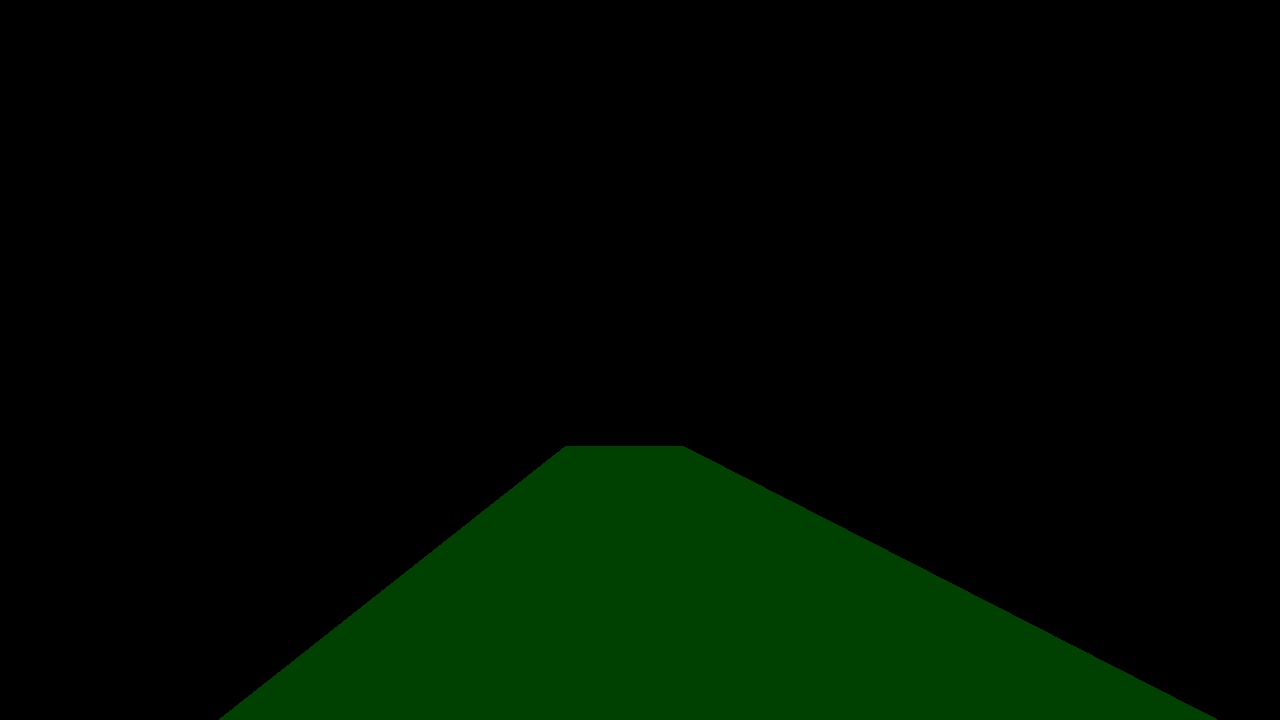
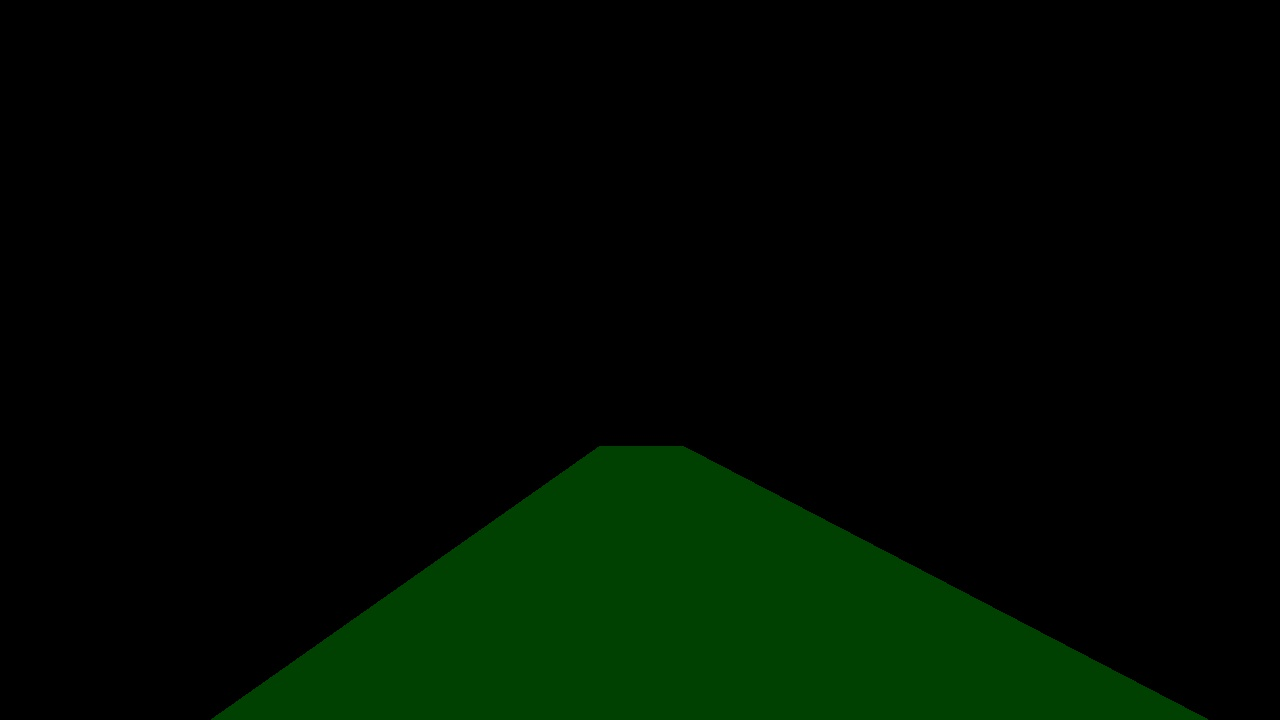
Correct images for lanes. On to next steps.

diff --git a/find_lanes.py b/find_lanes.py
@@ -261,7 +261,7 @@ def draw_lines_on_image(image, img_dir, img_suffix, img_format, is_rgb_lines=Fal
     # Make a blank the same size as our image to draw on
     rho = 1 # distance resolution in pixels of the Hough grid
     theta = np.pi/180 # angular resolution in radians of the Hough grid
-    threshold = 20     # minimum number of votes (intersections in Hough grid cell)
+    threshold = 22     # minimum number of votes (intersections in Hough grid cell)
     min_line_length = 50 #minimum number of pixels making up a line
     max_line_gap = 350    # maximum gap in pixels between connectable line segments
     line_image = np.copy(image)*0 # creating a blank to draw lines on
